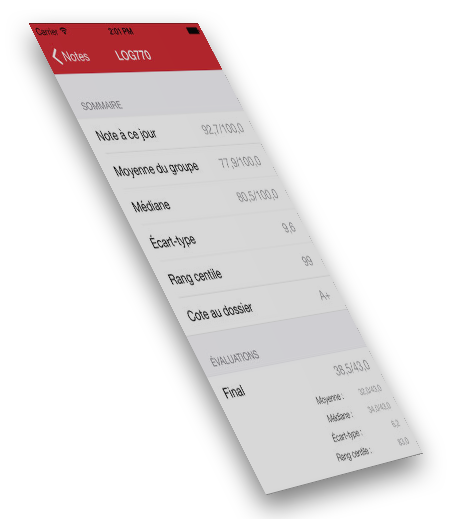
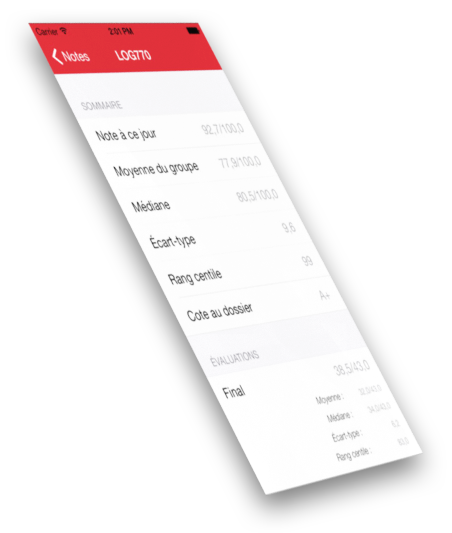
Photoshop fixes to pictures

diff --git a/projects.html b/projects.html
@@ -19,7 +19,7 @@
   <title>Projets</title>
 </head>
 
-<body style="background-image:url(images/background.png); background-repeat:round;"> 
+<body style="background-image:url(images/background.png); background-repeat:round;background-size:cover;"> 
   <nav class="navbar fixed-top navbar-expand-lg" id="header">
     <span id="navTitle" class="navbar-brand" style="font-size:5vh;cursor:default;color:white;">
             <img src="images/Logo_blanc_ApplETS.png" style="height:7vh;">
